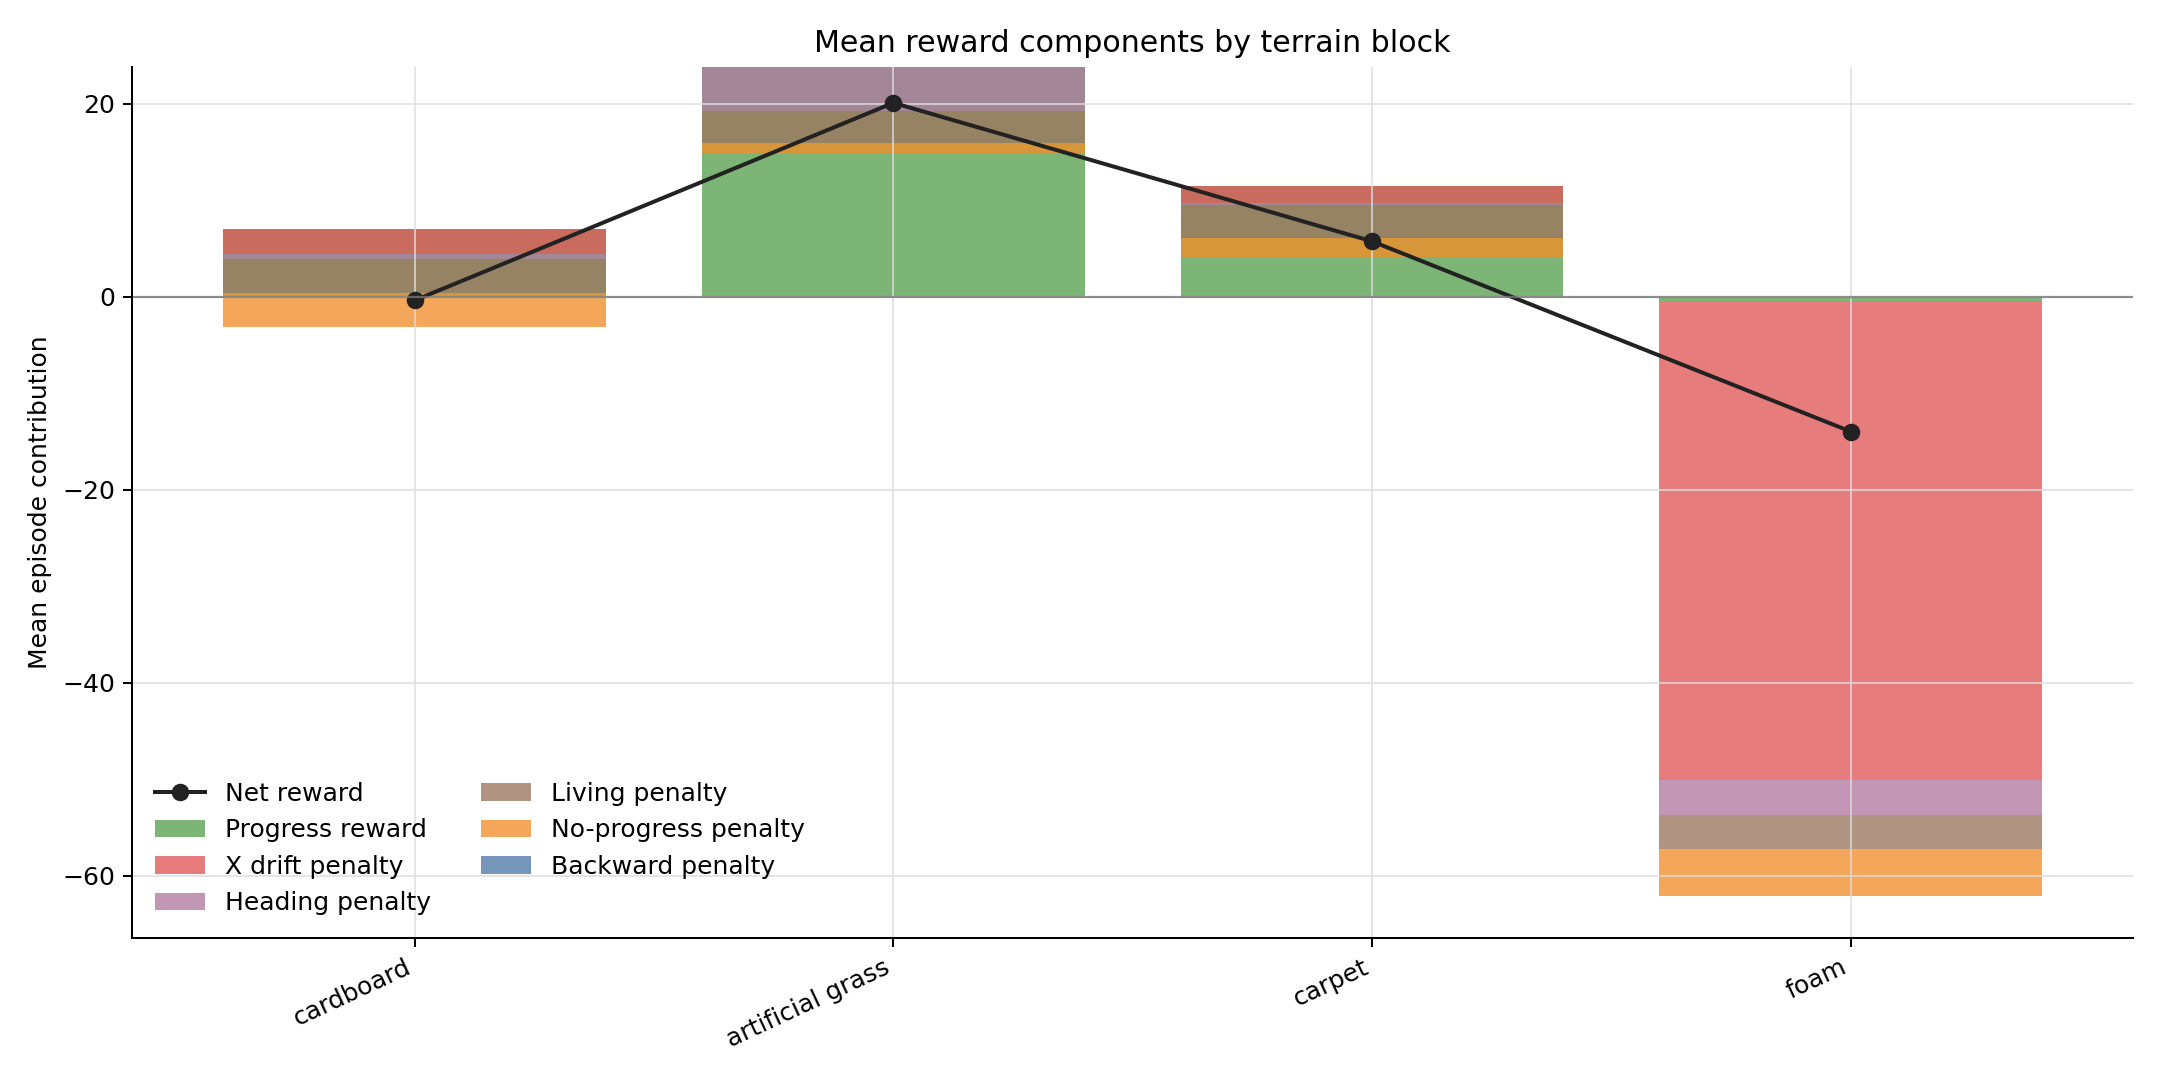
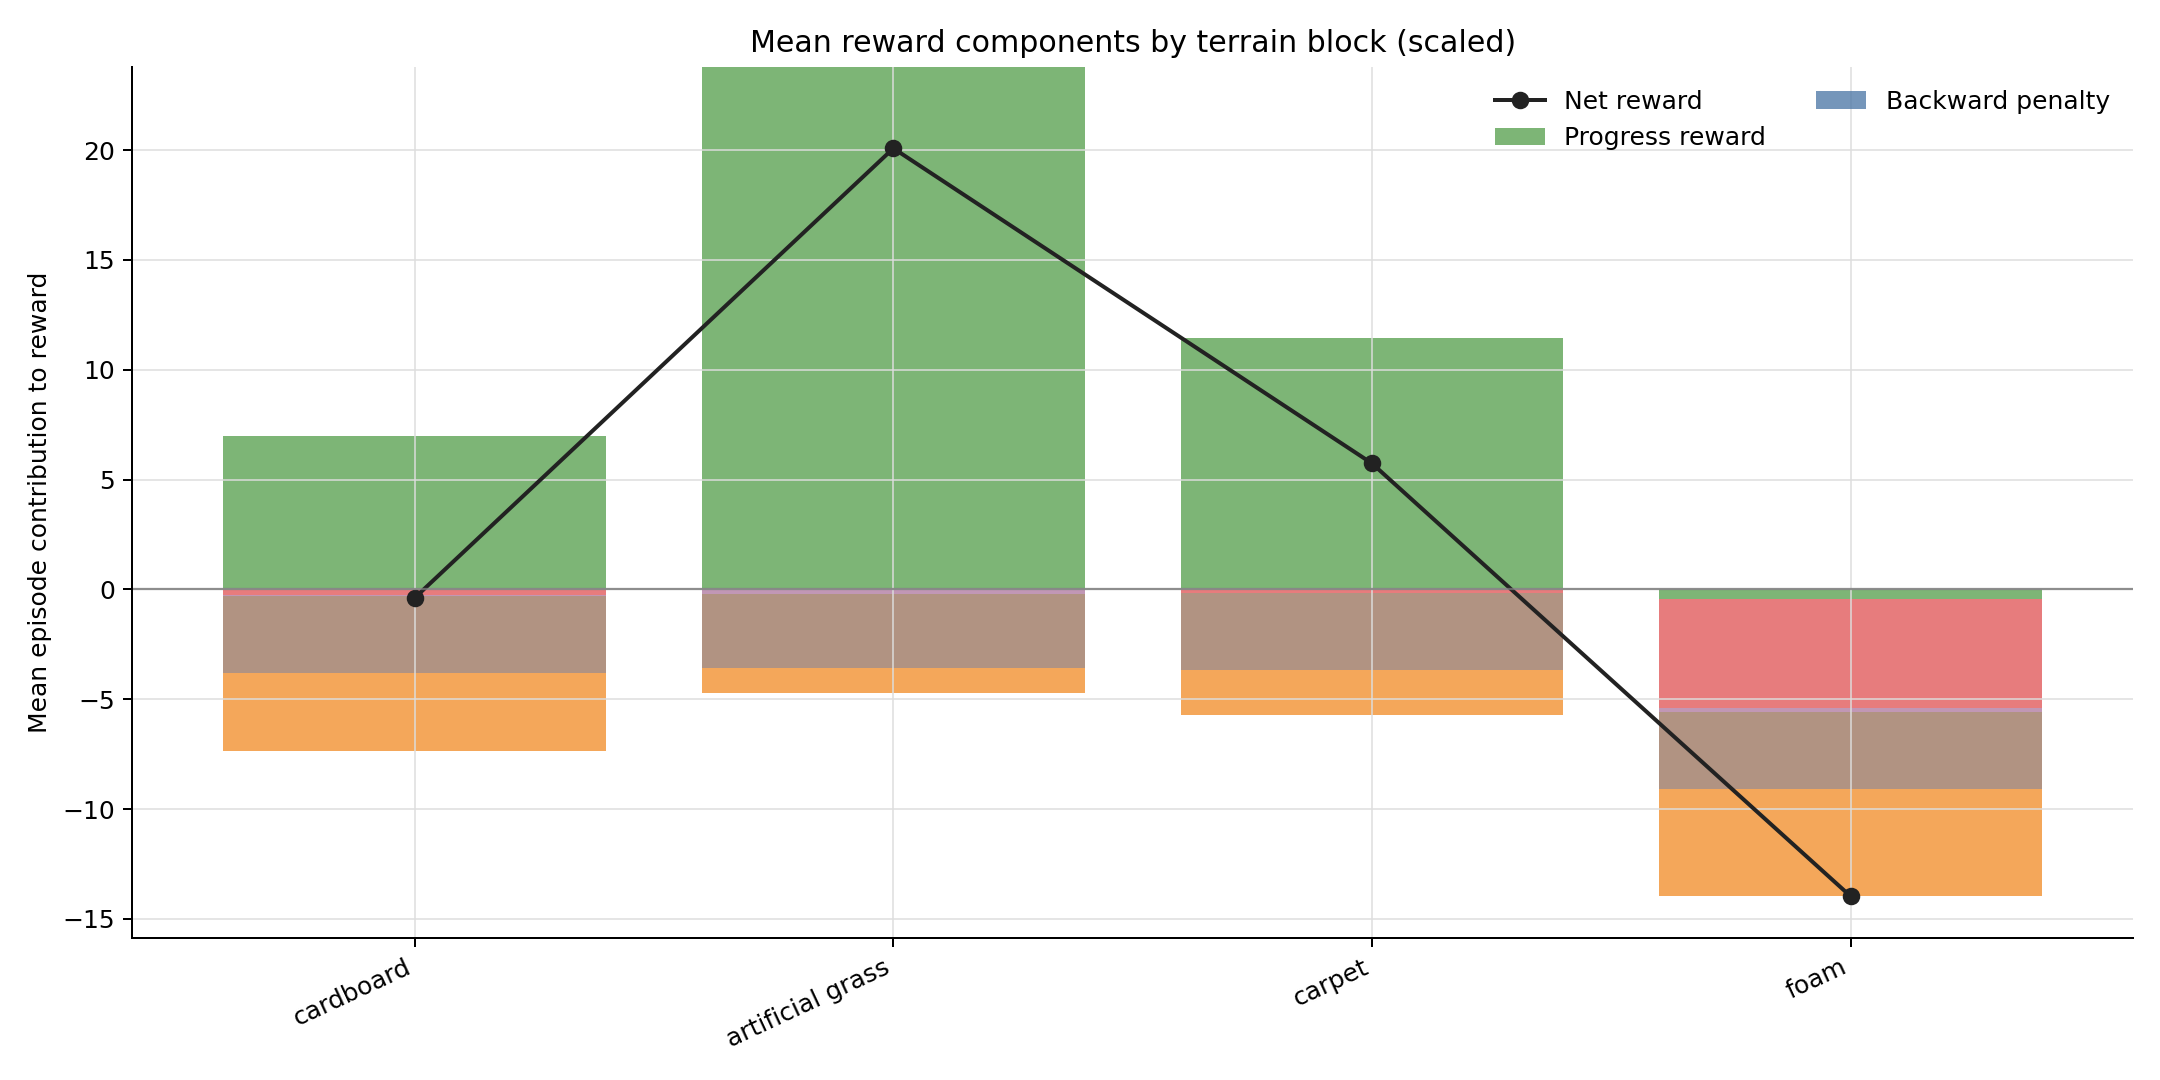
changes to noise, plots, training

diff --git a/CoadaptationCode/train_coadapt.py b/CoadaptationCode/train_coadapt.py
@@ -83,14 +83,46 @@ class Train():
         self.current_design_optimization_seed = None
         self._last_individual_reset_key = None
 
-        # Keep commands changing so the robot does not lock into one saturated pose.
-        self.action_noise_std = 0.10
-        self.repeat_action_eps = 0.02
-        self.repeat_action_perturb_std = 0.08
+        # Keep some exploration for fresh runs. For legacy warm starts, rely on
+        # the SAC policy's own stochasticity and avoid extra hand-added jitter
+        # so the old gait is preserved as much as possible.
+        default_action_noise_std = '0.0' if self.use_legacy_policy_warm_start else '0.10'
+        default_repeat_action_eps = '0.0' if self.use_legacy_policy_warm_start else '0.02'
+        default_repeat_action_perturb_std = '0.0' if self.use_legacy_policy_warm_start else '0.08'
+        self.action_noise_std = max(
+            0.0,
+            float(os.getenv('SNAKE_ACTION_NOISE_STD', default_action_noise_std)),
+        )
+        self.repeat_action_eps = max(
+            0.0,
+            float(os.getenv('SNAKE_REPEAT_ACTION_EPS', default_repeat_action_eps)),
+        )
+        self.repeat_action_perturb_std = max(
+            0.0,
+            float(os.getenv('SNAKE_REPEAT_ACTION_PERTURB_STD', default_repeat_action_perturb_std)),
+        )
         self.random_action_prob_start = 0.3
         self.random_action_prob_decay = 0.02
         self.random_action_prob_min = 0.1
-        self.population_training_start_design = int(os.getenv('SNAKE_POP_TRAIN_START_DESIGN', '0'))
+        default_pop_train_start_design = '2' if self.use_legacy_policy_warm_start else '0'
+        default_terrain_prefill_episodes = '1' if self.use_legacy_policy_warm_start else '0'
+        default_policy_warmup_episodes = '0' if self.use_legacy_policy_warm_start else str(self.policy_action_warmup_episodes)
+        default_update_warmup_episodes = '0' if self.use_legacy_policy_warm_start else str(self.training_update_warmup_episodes)
+        self.population_training_start_design = int(
+            os.getenv('SNAKE_POP_TRAIN_START_DESIGN', default_pop_train_start_design)
+        )
+        self.terrain_prefill_episodes = max(
+            0,
+            int(os.getenv('SNAKE_TERRAIN_PREFILL_EPISODES', default_terrain_prefill_episodes)),
+        )
+        self.policy_action_warmup_episodes = max(
+            0,
+            int(os.getenv('SNAKE_POLICY_WARMUP_EPISODES', default_policy_warmup_episodes)),
+        )
+        self.training_update_warmup_episodes = max(
+            0,
+            int(os.getenv('SNAKE_UPDATE_WARMUP_EPISODES', default_update_warmup_episodes)),
+        )
         self.max_motor_fault_step_retries = max(
             0,
             int(os.getenv('SNAKE_MOTOR_FAULT_STEP_RETRIES', '3')),
@@ -100,10 +132,9 @@ class Train():
             float(os.getenv('SNAKE_MOTOR_FAULT_STEP_RETRY_DELAY_S', '1.0')),
         )
         if self.use_legacy_policy_warm_start:
-            self.policy_action_warmup_episodes = int(os.getenv('SNAKE_POLICY_WARMUP_EPISODES', '0'))
-            self.random_action_prob_start = float(os.getenv('SNAKE_RANDOM_ACTION_PROB_START', '0.10'))
-            self.random_action_prob_decay = float(os.getenv('SNAKE_RANDOM_ACTION_PROB_DECAY', '0.01'))
-            self.random_action_prob_min = float(os.getenv('SNAKE_RANDOM_ACTION_PROB_MIN', '0.05'))
+            self.random_action_prob_start = float(os.getenv('SNAKE_RANDOM_ACTION_PROB_START', '0.0'))
+            self.random_action_prob_decay = float(os.getenv('SNAKE_RANDOM_ACTION_PROB_DECAY', '0.0'))
+            self.random_action_prob_min = float(os.getenv('SNAKE_RANDOM_ACTION_PROB_MIN', '0.0'))
 
         self.episodeCumulativeRewards = []  # Stores cumulative rewards per episode
         self.cumulativeRewards = []  # Stores cumulative rewards per step
@@ -170,7 +201,21 @@ class Train():
 
     def _should_train_updates(self):
         episode_idx = 0 if self.episode_counter is None else int(self.episode_counter)
-        return episode_idx >= self.training_update_warmup_episodes
+        if episode_idx < self.training_update_warmup_episodes:
+            return False
+
+        episode_in_block = (
+            0 if self.current_training_episode_in_block is None
+            else int(self.current_training_episode_in_block)
+        )
+        return episode_in_block >= self.terrain_prefill_episodes
+
+    def _is_terrain_prefill_episode(self):
+        episode_in_block = (
+            0 if self.current_training_episode_in_block is None
+            else int(self.current_training_episode_in_block)
+        )
+        return episode_in_block < self.terrain_prefill_episodes
 
     def _stable_seed(self, *components):
         modulus = 2 ** 32
@@ -1299,6 +1344,18 @@ class Train():
             self.popq2loss.extend(popq2loss)
             self.poppolicyloss.extend(poppolicyloss)
             self.epListLoss.extend([self.episode_counter] * len(q1loss))
+        elif experience_collected:
+            if (0 if self.episode_counter is None else int(self.episode_counter)) < self.training_update_warmup_episodes:
+                print(
+                    f"Skipping SAC updates for global warmup episode "
+                    f"{self.episode_counter + 1}/{self.training_update_warmup_episodes}."
+                )
+            elif self._is_terrain_prefill_episode():
+                print(
+                    f"Terrain prefill episode "
+                    f"{self.current_training_episode_in_block + 1}/{self.terrain_prefill_episodes} "
+                    f"for {self.current_training_terrain}: collecting replay only, no SAC updates."
+                )
         self.logTrainLoss() # log data
         self.episode_counter += 1
 
@@ -1748,6 +1805,10 @@ class Train():
             'random_action_prob_decay': self.random_action_prob_decay,
             'random_action_prob_min': self.random_action_prob_min,
             'population_training_start_design': self.population_training_start_design,
+            'terrain_prefill_episodes': self.terrain_prefill_episodes,
+            'action_noise_std': self.action_noise_std,
+            'repeat_action_eps': self.repeat_action_eps,
+            'repeat_action_perturb_std': self.repeat_action_perturb_std,
             'max_motor_fault_step_retries': self.max_motor_fault_step_retries,
             'motor_fault_step_retry_delay_s': self.motor_fault_step_retry_delay_s,
             'sac_batch_size': int(self.rl_alg._batch_size),
@@ -1869,11 +1930,6 @@ class Train():
                 'random_action_prob_min',
                 self.random_action_prob_min,
             )
-            self.population_training_start_design = metadata.get(
-                'population_training_start_design',
-                self.population_training_start_design,
-            )
-            self.population_training_start_design = int(self.population_training_start_design)
             self.max_motor_fault_step_retries = max(
                 0,
                 int(
@@ -1905,9 +1961,68 @@ class Train():
             saved_legacy_checkpoint = metadata.get('legacy_checkpoint_prefix')
             if saved_legacy_checkpoint:
                 self.legacy_checkpoint_prefix = saved_legacy_checkpoint
+            default_pop_train_start_design = '2' if self.use_legacy_policy_warm_start else '0'
+            default_terrain_prefill_episodes = '1' if self.use_legacy_policy_warm_start else '0'
+            default_action_noise_std = '0.0' if self.use_legacy_policy_warm_start else '0.10'
+            default_repeat_action_eps = '0.0' if self.use_legacy_policy_warm_start else '0.02'
+            default_repeat_action_perturb_std = '0.0' if self.use_legacy_policy_warm_start else '0.08'
+            default_policy_warmup_episodes = '0' if self.use_legacy_policy_warm_start else str(self.policy_action_warmup_episodes)
+            default_update_warmup_episodes = '0' if self.use_legacy_policy_warm_start else str(self.training_update_warmup_episodes)
+            default_random_action_prob_start = '0.0' if self.use_legacy_policy_warm_start else str(self.random_action_prob_start)
+            default_random_action_prob_decay = '0.0' if self.use_legacy_policy_warm_start else str(self.random_action_prob_decay)
+            default_random_action_prob_min = '0.0' if self.use_legacy_policy_warm_start else str(self.random_action_prob_min)
+            self.population_training_start_design = int(
+                os.getenv('SNAKE_POP_TRAIN_START_DESIGN', default_pop_train_start_design)
+            )
+            self.terrain_prefill_episodes = max(
+                0,
+                int(os.getenv('SNAKE_TERRAIN_PREFILL_EPISODES', default_terrain_prefill_episodes))
+            )
+            self.policy_action_warmup_episodes = max(
+                0,
+                int(os.getenv('SNAKE_POLICY_WARMUP_EPISODES', default_policy_warmup_episodes)),
+            )
+            self.training_update_warmup_episodes = max(
+                0,
+                int(os.getenv('SNAKE_UPDATE_WARMUP_EPISODES', default_update_warmup_episodes)),
+            )
+            self.random_action_prob_start = max(
+                0.0,
+                float(os.getenv('SNAKE_RANDOM_ACTION_PROB_START', default_random_action_prob_start)),
+            )
+            self.random_action_prob_decay = max(
+                0.0,
+                float(os.getenv('SNAKE_RANDOM_ACTION_PROB_DECAY', default_random_action_prob_decay)),
+            )
+            self.random_action_prob_min = max(
+                0.0,
+                float(os.getenv('SNAKE_RANDOM_ACTION_PROB_MIN', default_random_action_prob_min)),
+            )
+            self.action_noise_std = max(
+                0.0,
+                float(os.getenv('SNAKE_ACTION_NOISE_STD', default_action_noise_std)),
+            )
+            self.repeat_action_eps = max(
+                0.0,
+                float(os.getenv('SNAKE_REPEAT_ACTION_EPS', default_repeat_action_eps)),
+            )
+            self.repeat_action_perturb_std = max(
+                0.0,
+                float(os.getenv('SNAKE_REPEAT_ACTION_PERTURB_STD', default_repeat_action_perturb_std)),
+            )
             self.episode_iterations = len(self.terrain_sequence) * self.training_terrain_block_size
             self._seed_global_rngs('resume', self.design_counter, self.episode_counter)
             print(f"restored design_counter={self.design_counter}, episode_counter={self.episode_counter}")
+            print(
+                "resume training knobs -> "
+                f"population start design: {self.population_training_start_design}, "
+                f"terrain prefill episodes: {self.terrain_prefill_episodes}, "
+                f"policy warmup episodes: {self.policy_action_warmup_episodes}, "
+                f"update warmup episodes: {self.training_update_warmup_episodes}, "
+                f"random action start/min: {self.random_action_prob_start:.3f}/{self.random_action_prob_min:.3f}, "
+                f"action_noise_std: {self.action_noise_std:.3f}, "
+                f"repeat_action_perturb_std: {self.repeat_action_perturb_std:.3f}"
+            )
         else:
             raise FileNotFoundError(
                 f"No metadata file found for checkpoint prefix '{checkpoint_prefix}'. "

diff --git a/plot_training_data.py b/plot_training_data.py
@@ -44,6 +44,15 @@ DEFAULT_COLORS = [
     "#9C755F",
 ]
 
+REWARD_COMPONENT_SCALES = {
+    "sum_Progress_Reward": 1.0,
+    "sum_X_Drift_Penalty": -0.10,
+    "sum_Heading_Penalty": -0.05,
+    "sum_Living_Penalty": -1.0,
+    "sum_No_Progress_Penalty": -1.0,
+    "sum_Backward_Penalty": -1.0,
+}
+
 
 def parse_args() -> argparse.Namespace:
     parser = argparse.ArgumentParser(
@@ -83,7 +92,12 @@ def parse_args() -> argparse.Namespace:
 
 def find_log_file(prefix: str, kind: str) -> Path:
     matches = sorted(Path.cwd().glob(f"{prefix}{kind}*"))
-    matches = [path for path in matches if path.is_file()]
+    valid_suffixes = {"", ".csv", ".txt"}
+    matches = [
+        path
+        for path in matches
+        if path.is_file() and path.suffix.lower() in valid_suffixes
+    ]
     if not matches:
         raise FileNotFoundError(f"No file found matching {prefix}{kind}*")
     if len(matches) > 1:
@@ -492,15 +506,34 @@ def plot_reward_components(summary: pd.DataFrame, output_dir: Path) -> Path:
     for col, label, color in labels_and_colors:
         if col not in component_means:
             continue
-        values = component_means[col].to_numpy(dtype=float)
-        if col != "sum_Progress_Reward":
-            values = -values
-        bottom = positive_bottom if np.all(values >= 0) else negative_bottom
-        ax.bar(x, values, bottom=bottom, color=color, alpha=0.78, label=label)
-        if np.all(values >= 0):
-            positive_bottom += values
-        else:
-            negative_bottom += values
+        values = (
+            component_means[col].to_numpy(dtype=float)
+            * REWARD_COMPONENT_SCALES.get(col, 1.0)
+        )
+        positive_mask = values >= 0
+        negative_mask = ~positive_mask
+
+        if np.any(positive_mask):
+            ax.bar(
+                x[positive_mask],
+                values[positive_mask],
+                bottom=positive_bottom[positive_mask],
+                color=color,
+                alpha=0.78,
+                label=label,
+            )
+            positive_bottom[positive_mask] += values[positive_mask]
+
+        if np.any(negative_mask):
+            ax.bar(
+                x[negative_mask],
+                values[negative_mask],
+                bottom=negative_bottom[negative_mask],
+                color=color,
+                alpha=0.78,
+                label="_nolegend_",
+            )
+            negative_bottom[negative_mask] += values[negative_mask]
 
     net = (
         summary.groupby(["terrain_block", "terrain"], as_index=False)[
@@ -518,8 +551,8 @@ def plot_reward_components(summary: pd.DataFrame, output_dir: Path) -> Path:
         rotation=25,
         ha="right",
     )
-    ax.set_ylabel("Mean episode contribution")
-    ax.set_title("Mean reward components by terrain block")
+    ax.set_ylabel("Mean episode contribution to reward")
+    ax.set_title("Mean reward components by terrain block (scaled)")
     ax.legend(frameon=False, ncol=2)
     finish_axis(ax, xlabel=None)
     fig.tight_layout()

diff --git a/CoadaptationCode/snakeenv_thread_coadapt.py b/CoadaptationCode/snakeenv_thread_coadapt.py
@@ -161,7 +161,7 @@ class SnakeEnv(gymnasium.Env):
         self.heading_penalty_scale = 0.05
         self.terminal_reward_bonus = 5.0
         self.reward_clip_min = -3.0
-        self.reward_clip_max = 5.0
+        self.reward_clip_max = 6.0
         self._interactive_reset_default = self._read_interactive_reset_default()
         self._auto_motor_reset_default = self._read_bool_env(
             'SNAKE_AUTO_MOTOR_RESET',
